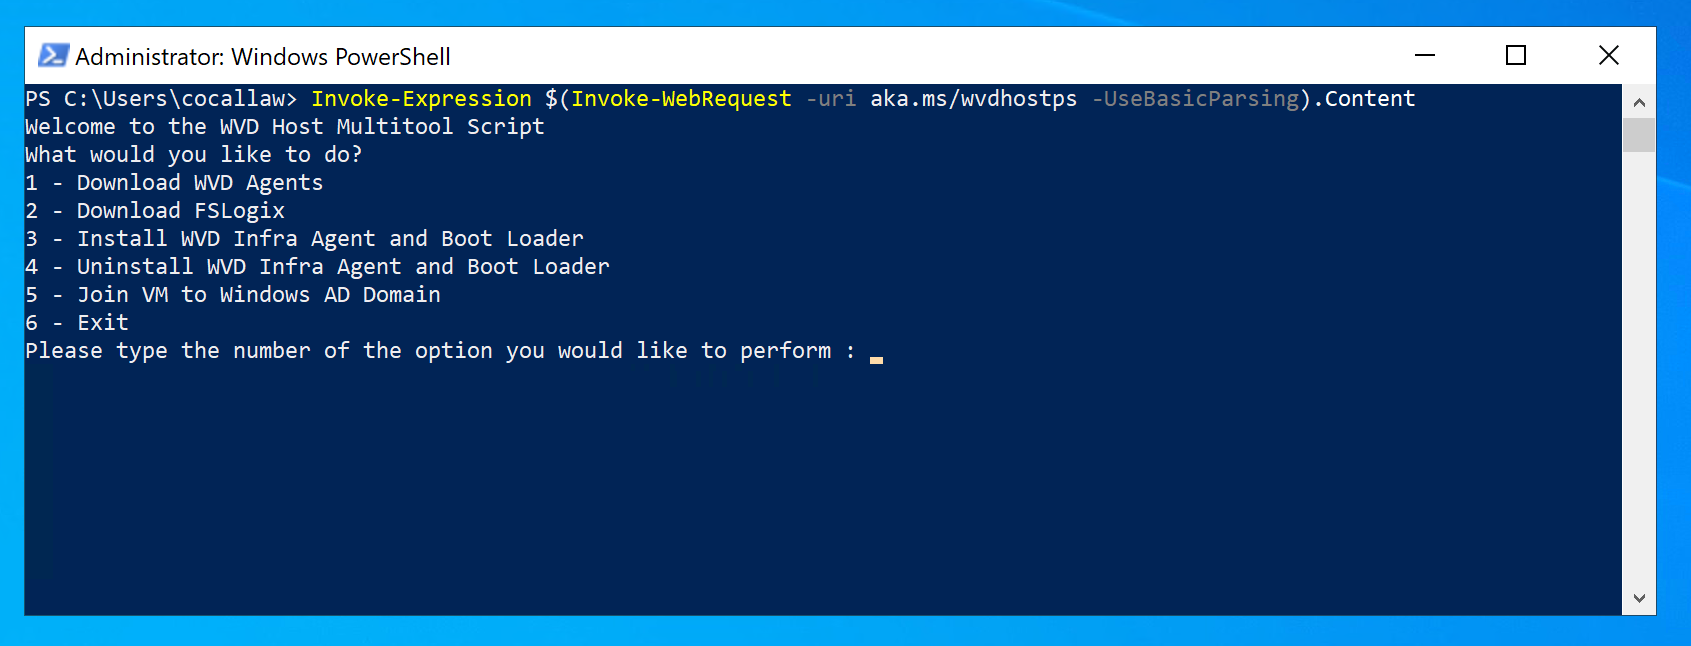
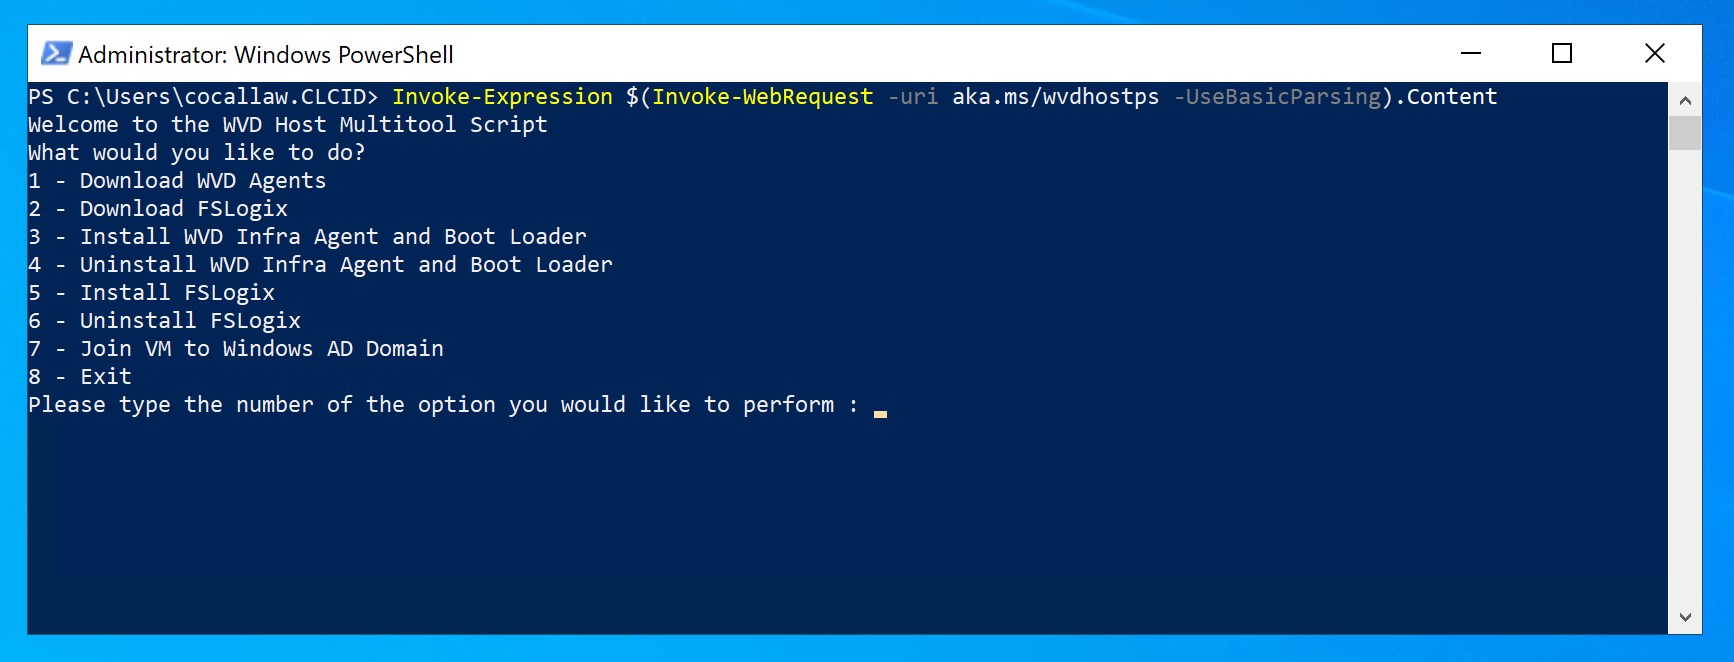
Update ReadMe

Changed region(s): [[0.0, 0.031, 0.984, 0.9598]]

diff --git a/README.md b/README.md
@@ -8,17 +8,18 @@ The WVD Host Multitool Script provides the ability to perform basic WVD Host con
 
 ![PowerShell Screenshot](/images/wvdhostpsscreenshot01.png)
 
-### Currently the WVD Host Multitool provides the option to perform the following tasks as of January 4, 2020
+### Currently the WVD Host Multitool provides the option to perform the following tasks as of January 5, 2020
 
 - Download WVD Agents
 - Download FSLogix 
 - Install WVD Infra Agent and Boot Loader
 - Uninstall WVD Infra Agent and Boot Loader
+- Install FSLogix
+- Uninstall FSLogix
 - Join VM to Windows AD Domain
 
 ### Features in development and testing - 
 
-- Installation of FSLogix
 - Checking the values of FSLogix Registry Keys (Enable and VHDLocations)
 - Setting FSlogix Registry Keys (Enable and VHDLocations)
 
